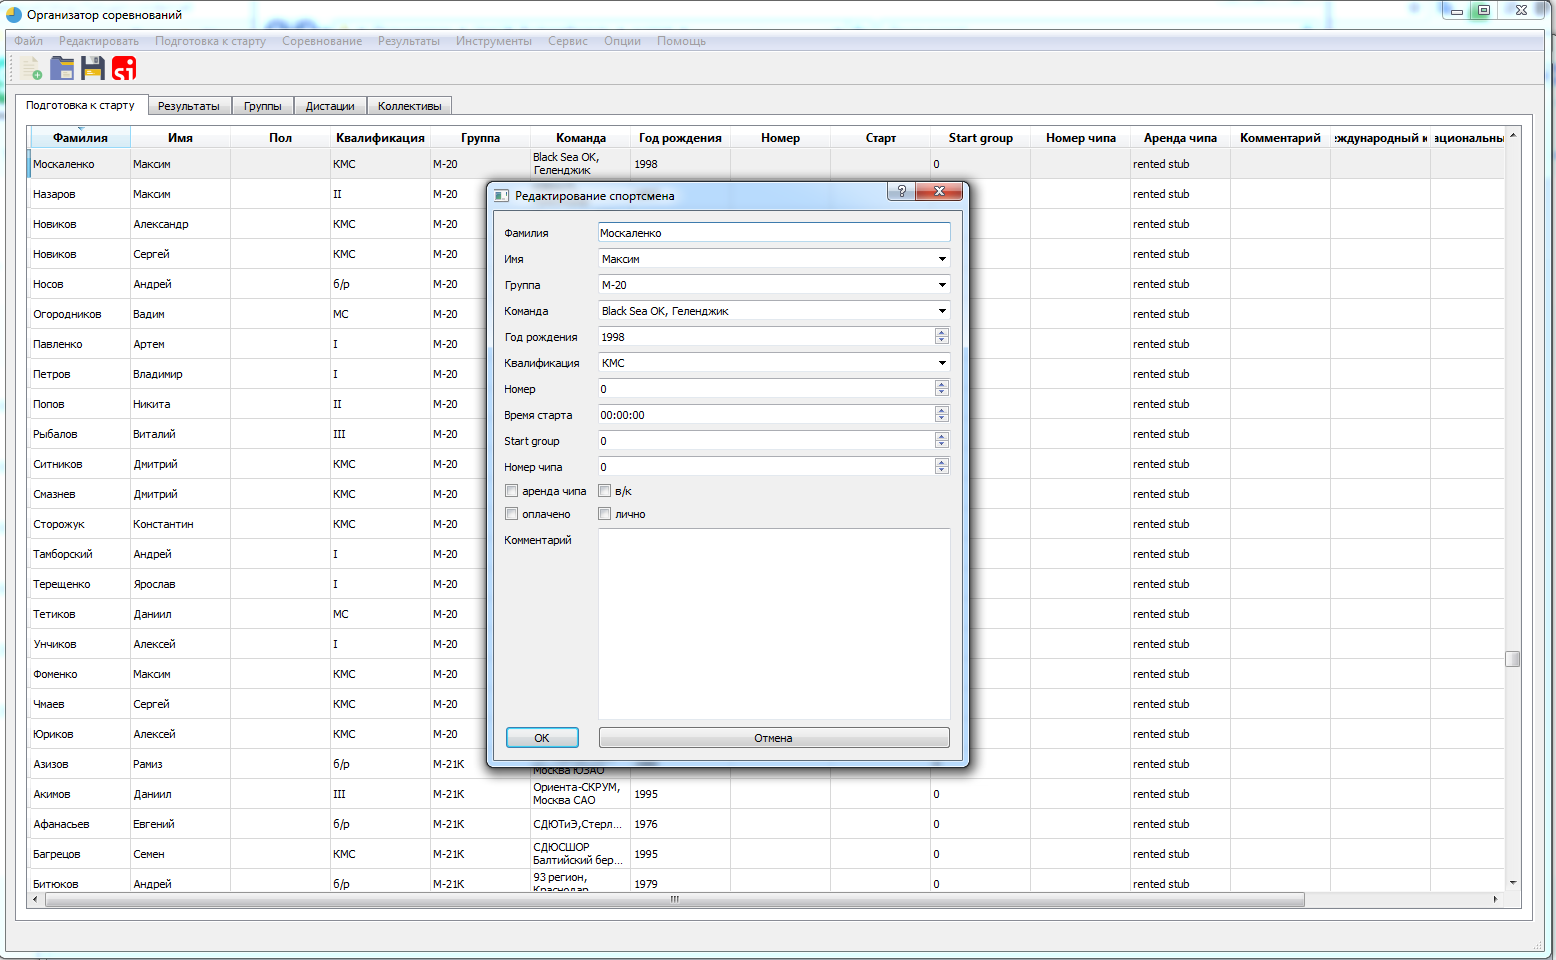
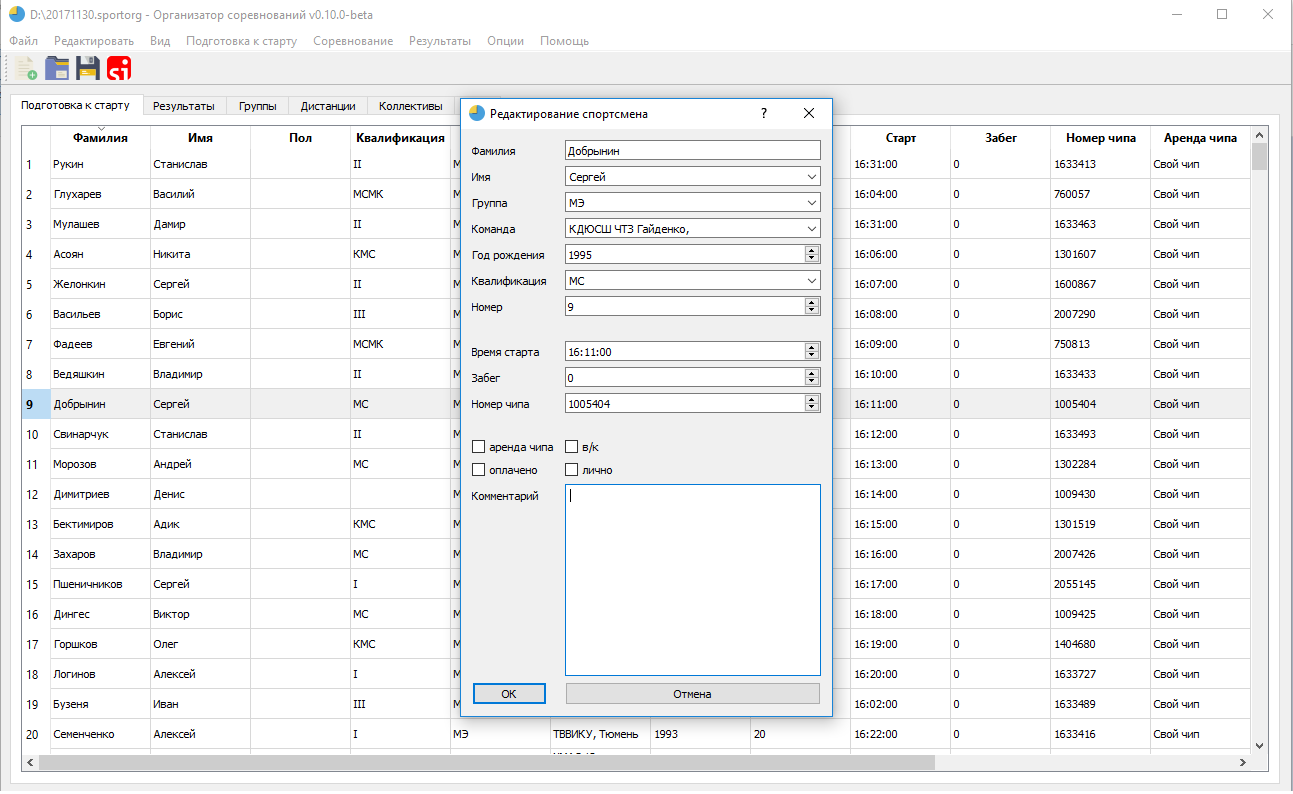
Changed README and .gitignore, and VERSION

Changed region(s): [[0.0, 0.0, 1.0, 1.0]]

diff --git a/SportOrg.go b/SportOrg.go
@@ -12,10 +12,6 @@ func getGlobalPython() string {
 	return "pythonw"
 }
 
-func getLocalPython() string {
-	return "python/pythonw.exe"
-}
-
 func baseDir(p string) string {
 	dir, err := filepath.Abs(filepath.Dir(os.Args[0]))
     if err != nil {
@@ -35,12 +31,7 @@ func hasPython(p string) bool {
 func main() {
     argsWithoutProg := os.Args[1:]
 
-    var pythonName string
-    if hasPython(getLocalPython()) {
-    	pythonName = baseDir(getLocalPython())
-	} else {
-		pythonName = getGlobalPython()
-	}
+    var pythonName = getGlobalPython()
 
 	cmd := exec.Command(
         pythonName,

diff --git a/sportorg/config.py b/sportorg/config.py
@@ -5,7 +5,7 @@ import logging.config
 from sportorg.core.version import Version
 
 NAME = 'SportOrg'
-VERSION = Version(0, 9, 0, 0, 'v', 'beta')
+VERSION = Version(0, 10, 0, 0, 'v', 'beta')
 DEBUG = True
 
 

diff --git a/README.md b/README.md
@@ -8,7 +8,7 @@
 - [polib](http://polib.readthedocs.io/en/latest/quickstart.html)
 
 Install packages
-```
+```commandline
 pip install package-name
 
 pip install sireader
@@ -16,8 +16,14 @@ pip install sireader
 
 or
 
+```commandline
+pip install -r requirements.txt
 ```
-pip install -t lib -r requirements.txt
+
+Run
+
+```commandline
+python SportOrg.pyw
 ```
 
 ### Struct
@@ -28,8 +34,7 @@ pip install -t lib -r requirements.txt
     docs/
     log/
     templates/
-    python/
-    lib/
+    test/
     img/
         icon/
     languages/
@@ -41,13 +46,15 @@ pip install -t lib -r requirements.txt
         gui/
         models/
         modules/
-        lib/
+        libs/
         utils/
 ```
 
 ![Mainwindow sportorg](img/mainwindow.png)
 
 ![Dialogedit sportorg](img/dialogedit.png)
+![Result sportorg](img/result.png)
+![Bibprintout sportorg](img/bibprintout.png)
 
 ### build `go`
 

diff --git a/changelog.md b/changelog.md
@@ -1,3 +1,14 @@
+### 2017-12-12 v0.10.0-beta
++ Added the ability to edit splits
++ Support for multiple marking systems at the model level
++ Printing of bib
++ Numbering rows in tables
++ Ability to select templates for separation
++ New template for split
+- Taking into account the change in the starting time of the result
+* Changed the project structure
+
+
 ### 2017-11-15 v0.9.0-beta
 + Assigning of card for athlete while result editing
 + Result editing - interactive number change
@@ -29,5 +40,4 @@
 
 
 ### 2017-10-17 v0.7.2-beta
-
 * Init
